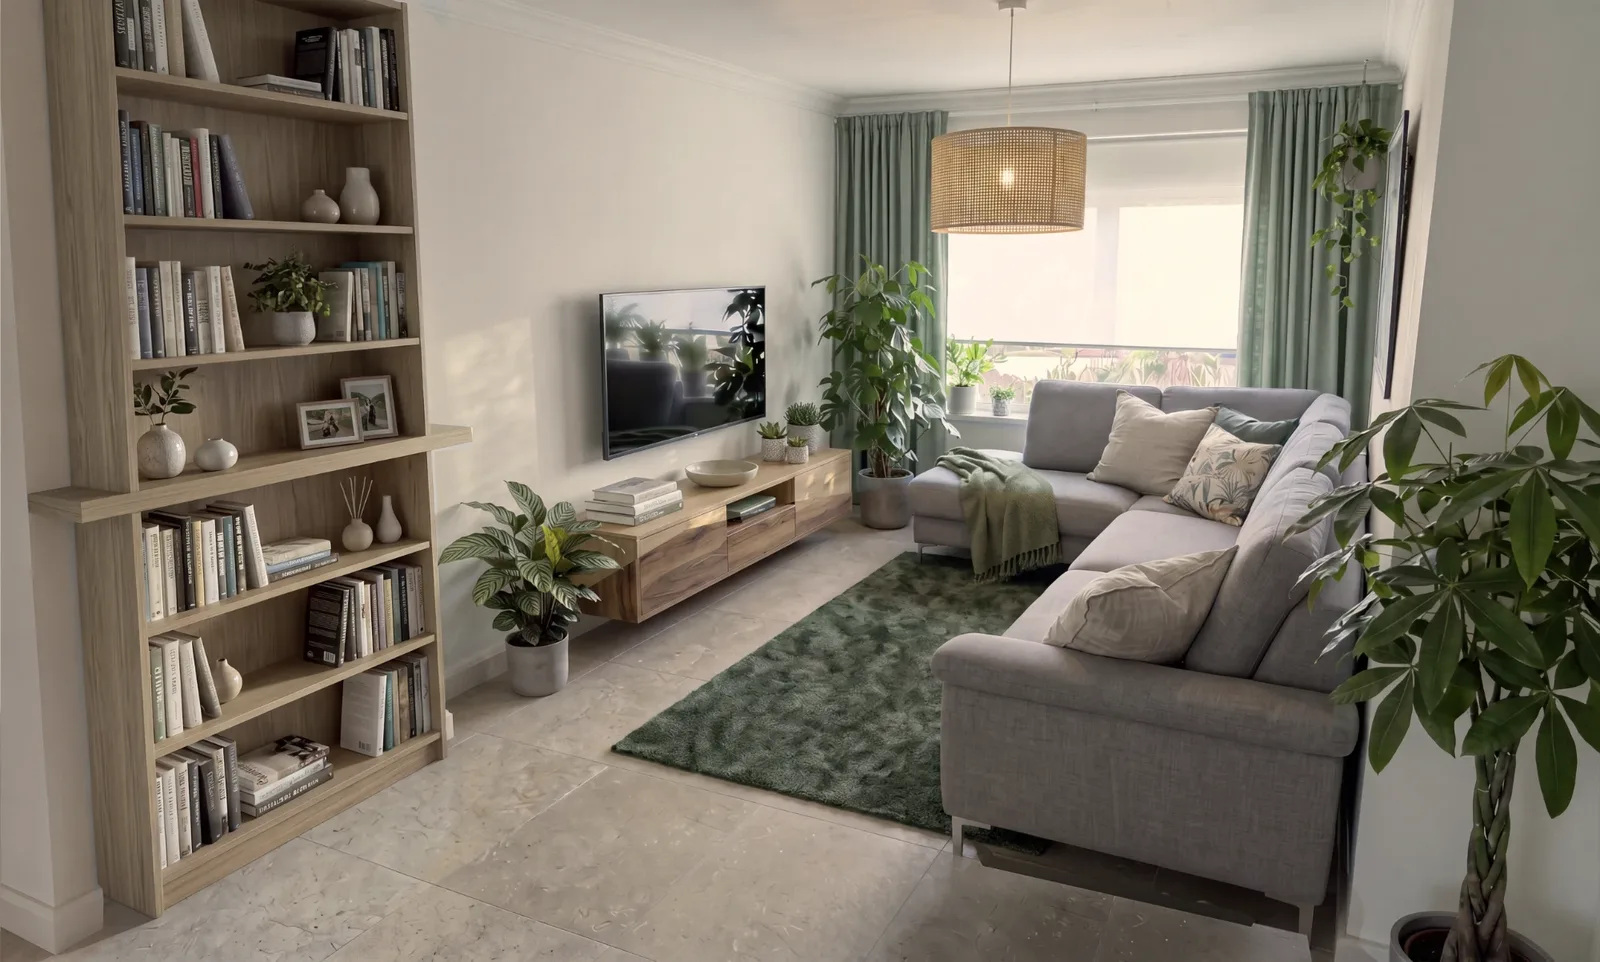
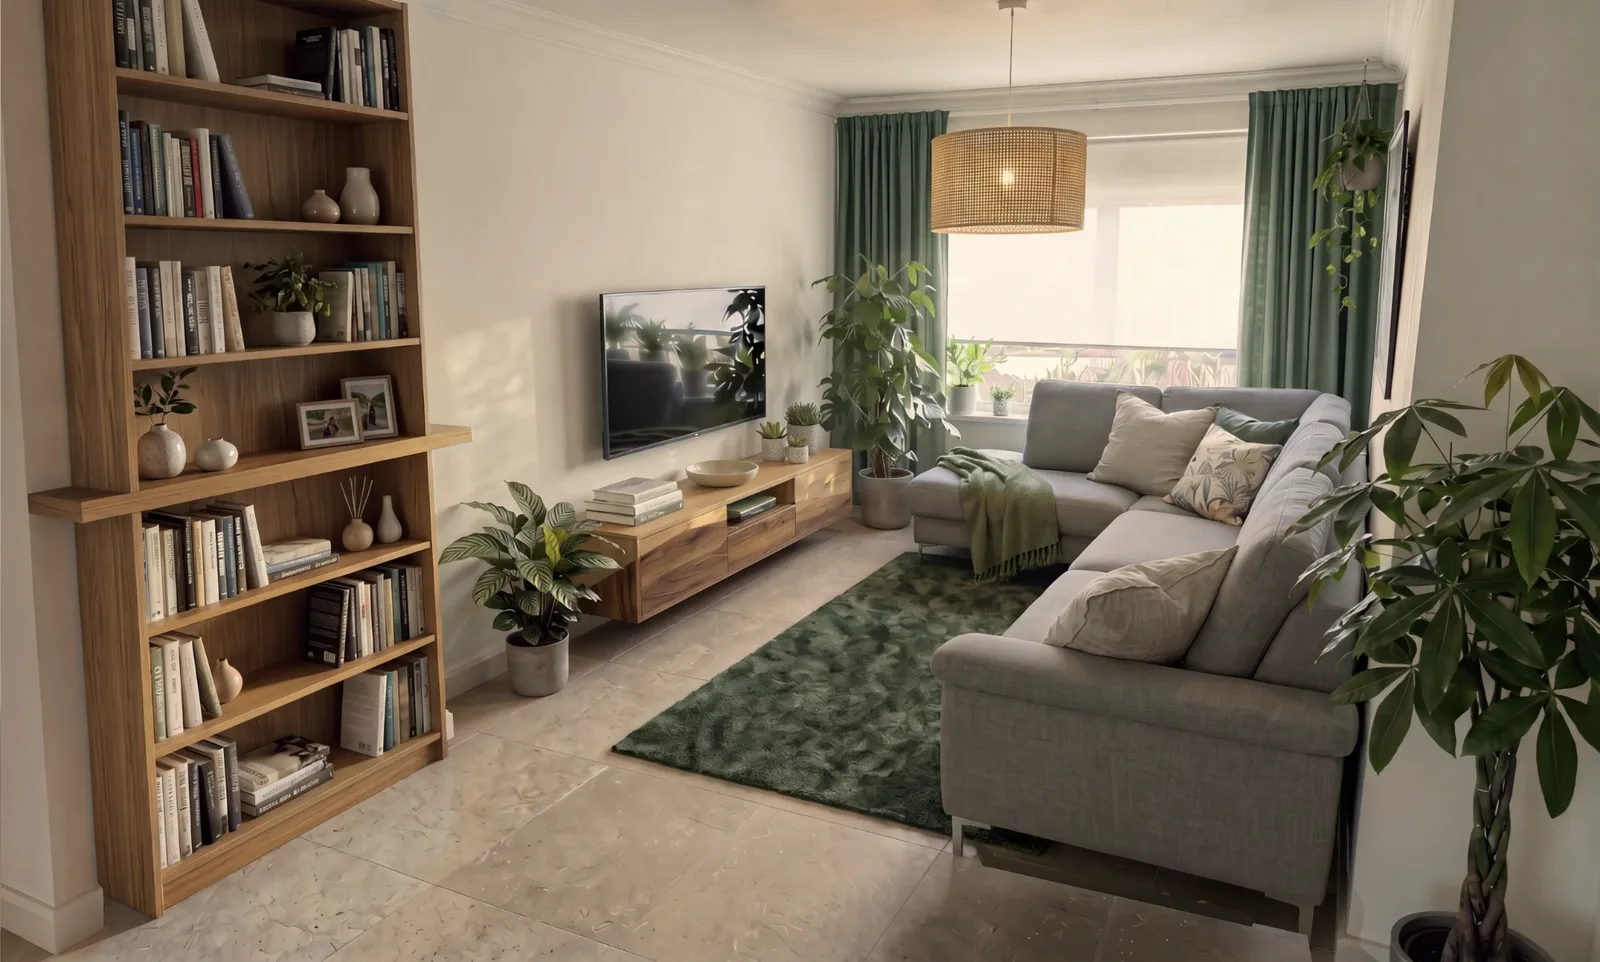
Verbouwingen: light-mode index with ASCII tunnel and cleaner labels; woonkamer mockup updated
- /verbouwingen/ index: light mode, shared ASCII tunnel (assets/ftp-tunnel.js), de-duplicated entry text
- woonkamer-mockup-3.webp replaced by the updated render (1600px)

Claude-Session: https://claude.ai/code/session_01Tqor8vQ3DeRLeoxamMsBia

diff --git a/assets/ftp-tunnel.js b/assets/ftp-tunnel.js
@@ -1,0 +1,83 @@
+// Shared procedural ASCII tunnel for the FTP-style index pages (copied from /projects/index.html).
+    // Procedural ASCII tunnel effect (classic demoscene technique):
+    // each cell's polar coordinates are precomputed once, then a rotating,
+    // scrolling checker pattern sampled through them each frame. The grid
+    // is sized from the container's actual pixel size (not a fixed count)
+    // so the art always fills the box edge to edge.
+    (function(){
+      var pre = document.getElementById('tunnel');
+      if(!pre) return;
+      var reduce = window.matchMedia && window.matchMedia('(prefers-reduced-motion: reduce)').matches;
+
+      var CHARS = ' .:-=+*#%@';
+      var TEX_ANGLE = 12;
+      var COLS, ROWS, cx, cy, cells;
+
+      function measureChar(){
+        var probe = document.createElement('span');
+        probe.style.position = 'absolute';
+        probe.style.visibility = 'hidden';
+        probe.style.whiteSpace = 'pre';
+        probe.style.font = getComputedStyle(pre).font;
+        probe.textContent = 'M'.repeat(40);
+        document.body.appendChild(probe);
+        var w = probe.getBoundingClientRect().width / 40;
+        document.body.removeChild(probe);
+        var lh = parseFloat(getComputedStyle(pre).lineHeight);
+        if(!lh) lh = parseFloat(getComputedStyle(pre).fontSize) * 1.15;
+        return { w: w, h: lh };
+      }
+
+      function rebuild(){
+        var rect = pre.getBoundingClientRect();
+        var ch = measureChar();
+        COLS = Math.max(20, Math.floor(rect.width / ch.w));
+        ROWS = Math.max(10, Math.floor(rect.height / ch.h));
+        cx = COLS / 2; cy = ROWS / 2;
+        cells = new Array(COLS * ROWS);
+        for(var y = 0; y < ROWS; y++){
+          for(var x = 0; x < COLS; x++){
+            var dx = (x - cx) / COLS;
+            var dy = ((y - cy) / ROWS) * 0.62; // squash for monospace char aspect ratio
+            var dist = Math.sqrt(dx * dx + dy * dy) + 0.0001;
+            cells[y * COLS + x] = { dist: dist, angle: Math.atan2(dy, dx) };
+          }
+        }
+      }
+
+      var t = 0;
+      function render(){
+        t += 0.09;
+        var out = '';
+        for(var y = 0; y < ROWS; y++){
+          var row = '';
+          for(var x = 0; x < COLS; x++){
+            var c = cells[y * COLS + x];
+            var u = (1 / c.dist) * 2.4 - t * 2.2;      // scroll toward viewer
+            var a = c.angle + t * 0.12;                 // slow swirl
+            var depthIdx = Math.floor(u);
+            var angleIdx = Math.floor(((a / (Math.PI * 2)) + 1) * TEX_ANGLE);
+            var checker = (depthIdx + angleIdx) & 1;
+            var fog = Math.min(1, 1 / (c.dist * 3.4));   // fades into the dark at range
+            var level = checker ? fog : fog * 0.28;
+            var idx = Math.max(0, Math.min(CHARS.length - 1, Math.round(level * (CHARS.length - 1))));
+            row += CHARS[idx];
+          }
+          out += row + (y < ROWS - 1 ? '\n' : '');
+        }
+        pre.textContent = out;
+      }
+
+      rebuild();
+      render();
+      if(reduce) return;
+
+      var resizeTimer;
+      window.addEventListener('resize', function(){
+        clearTimeout(resizeTimer);
+        resizeTimer = setTimeout(rebuild, 150);
+      });
+
+      setInterval(render, 80);
+    })();
+  

diff --git a/verbouwingen/index.html b/verbouwingen/index.html
@@ -17,6 +17,14 @@
 <link rel="preconnect" href="https://fonts.gstatic.com" crossorigin>
 <link href="https://fonts.googleapis.com/css2?family=Figtree:wght@400;500;600;700&family=JetBrains+Mono:wght@400;500;700&display=swap" rel="stylesheet">
 <link rel="stylesheet" href="/assets/ftp.css">
+<style>
+  /* Light mode (Blue Sheet palette) on top of the shared FTP look */
+  :root{--flat:#eaf3fa;--term-bg:#ffffff;--term-line:rgba(0,43,67,.22);--text:#002b43;--text-dim:#2f5f84;--link:#0b5a91}
+  .term{box-shadow:0 12px 36px rgba(0,43,67,.12)}
+  .tunnel{text-shadow:none}
+  table.listing td{border-bottom-color:rgba(0,43,67,.12)}
+  table.listing a:hover,table.listing a:focus-visible{color:#06406b}
+</style>
 </head>
 
 <body>
@@ -25,9 +33,10 @@
     <a class="brand" href="/">🦌 AVDN - EXPERIMENTS AND PROJECTS</a>
 
     <section class="term">
+      <pre id="tunnel" class="tunnel" aria-hidden="true"></pre>
+
       <div class="term-body">
         <p class="line dim"><strong>/verbouwingen/</strong></p>
-        <p class="line dim">Verbouwingen en verhuis: interieur en planning per adres.</p>
 
         <table class="listing">
           <thead>
@@ -39,15 +48,15 @@
               <td>&#8212;</td><td>&#8212;</td>
             </tr>
             <tr>
-              <td><span class="tag">[DIR]</span><a href="leeuwerikenlaan-25/">leeuwerikenlaan-25/  (Leeuwerikenlaan 25 – interieur en planning)</a></td>
+              <td><span class="tag">[DIR]</span><a href="leeuwerikenlaan-25/">Leeuwerikenlaan 25: Interieur en planning</a></td>
               <td>2026-11-01</td><td>&#8212;</td>
             </tr>
             <tr>
-              <td><span class="tag">[DIR]</span><a href="leopoldlaan-9/">leopoldlaan-9/  (Leopoldlaan 9 – interieur en planning)</a></td>
+              <td><span class="tag">[DIR]</span><a href="leopoldlaan-9/">Leopoldlaan 9: interieur en planning</a></td>
               <td>2026-11-01</td><td>&#8212;</td>
             </tr>
             <tr>
-              <td><span class="tag">[DIR]</span><a href="verhuisdagen/">verhuisdagen/  (Verhuisdagen – planning, De Grote Verhuis)</a></td>
+              <td><span class="tag">[DIR]</span><a href="verhuisdagen/">Verhuis en Logistiek</a></td>
               <td>2026-11-01</td><td>&#8212;</td>
             </tr>
           </tbody>
@@ -66,5 +75,6 @@
 
   </main>
   <script src="/assets/ftp-size.js" defer></script>
+  <script src="/assets/ftp-tunnel.js" defer></script>
 </body>
 </html>
